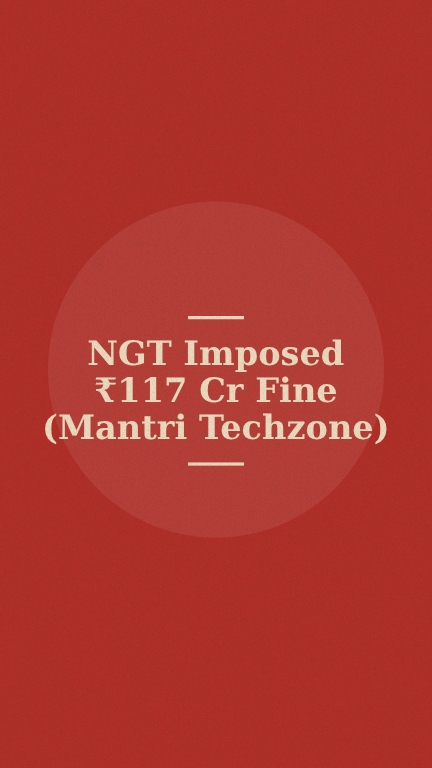
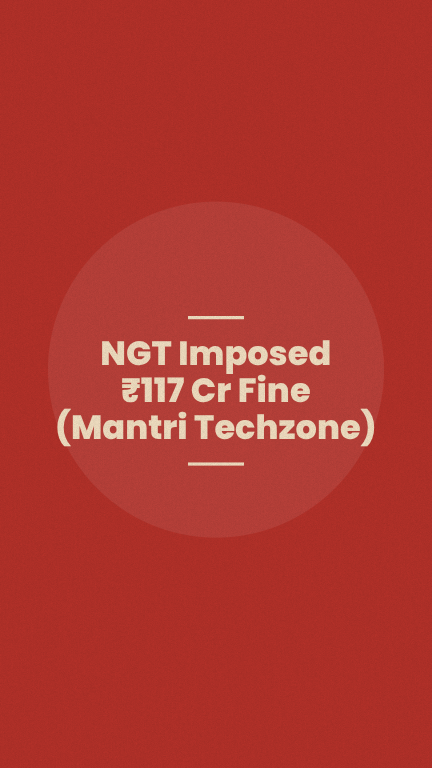
Use Poppins for all on-screen text and drop the vignette
Claude-Session: https://claude.ai/code/session_01XyZ5pH9ZcEEzWKJyb5d1cn

Changed region(s): [[0.0903, 0.4375, 0.9028, 0.5938]]

diff --git a/video/src/Main.tsx b/video/src/Main.tsx
@@ -1,6 +1,6 @@
 import React from 'react';
 import {AbsoluteFill, Audio, Img, Sequence, interpolate, spring, staticFile, useCurrentFrame} from 'remotion';
-import {C, Defs, Grain, P, Palm, Person, Pine, Ripples, SERIF, Tower, Vignette} from './art';
+import {C, Defs, Grain, P, Palm, Person, Pine, Ripples, SERIF, Tower} from './art';
 import {ASSETS} from './assets';
 
 const FPS = 30;
@@ -70,7 +70,7 @@ const Super: React.FC<{lines: string[]; color: string; size?: number; f: number}
   const p = spring({frame: f, fps: FPS, config: {damping: 14}});
   return (
     <div style={{display: 'flex', justifyContent: 'center', opacity: p, transform: `translateY(${(1 - p) * 24}px)`}}>
-      <div style={{background: P.navy, borderTop: `10px solid ${color}`, padding: '20px 34px', textAlign: 'center', fontFamily: SERIF, fontWeight: 700, fontSize: size, lineHeight: 1.22, color: P.cream, maxWidth: 847, boxShadow: '0 14px 0 rgba(0,0,0,.25)'}}>
+      <div style={{background: P.navy, borderTop: `10px solid ${color}`, padding: '20px 34px', textAlign: 'center', fontFamily: SERIF, fontWeight: 800, fontSize: size, lineHeight: 1.22, color: P.cream, maxWidth: 847, boxShadow: '0 14px 0 rgba(0,0,0,.25)'}}>
         {lines.map((l) => <div key={l} style={{whiteSpace: 'nowrap'}}>{l}</div>)}
       </div>
     </div>
@@ -103,7 +103,7 @@ const TitleCard: React.FC<{color: string; lines?: string[]; checks?: boolean}> =
       </svg>
       <div style={{position: 'absolute', left: 116, top: 410, width: 847, height: 1134, display: 'flex', flexDirection: 'column', alignItems: 'center', justifyContent: 'center', transform: `translateY(${(1 - p) * 60}px)`}}>
         <div style={{width: 140, height: 8, background: P.cream, marginBottom: 40}} />
-        {lines && <div style={{fontFamily: SERIF, fontWeight: 700, fontSize: 84, lineHeight: 1.1, color: P.cream, textAlign: 'center'}}>{lines.map((l) => <div key={l} style={{whiteSpace: 'nowrap'}}>{l}</div>)}</div>}
+        {lines && <div style={{fontFamily: SERIF, fontWeight: 800, fontSize: 84, lineHeight: 1.1, color: P.cream, textAlign: 'center'}}>{lines.map((l) => <div key={l} style={{whiteSpace: 'nowrap'}}>{l}</div>)}</div>}
         {checks && (
           <svg width="640" height="220" viewBox="0 0 640 220">
             {[0, 1, 2].map((i) => {
@@ -136,7 +136,6 @@ const Stage: React.FC<{id: string; bg: React.ReactNode; children: React.ReactNod
       {!asset && (
         <div style={{position: 'absolute', left: 116, top: 470, width: 847, height: 700, transform: `translateY(${Math.sin(f / 60) * 6}px) scale(${1 + f * 0.0001})`}}>{children}</div>
       )}
-      <Vignette />
       <Grain f={f} />
     </AbsoluteFill>
   );

diff --git a/video/src/art.tsx b/video/src/art.tsx
@@ -1,4 +1,5 @@
 import React from 'react';
+import {loadFont} from '@remotion/google-fonts/Poppins';
 
 // mid-century flat palette (teal/navy + burnt orange + peach, grain)
 export const P = {
@@ -22,8 +23,9 @@ export const C = {
   checks: P.mustard,
 };
 
-export const SERIF = 'Georgia,"DejaVu Serif","Times New Roman",serif';
-export const SANS = '"Futura","Avenir Next","DejaVu Sans",system-ui,sans-serif';
+const {fontFamily} = loadFont('normal', {weights: ['500', '700', '800'], subsets: ['latin', 'devanagari']});
+export const SERIF = fontFamily;
+export const SANS = fontFamily;
 
 export const Defs: React.FC = () => (
   <defs>
